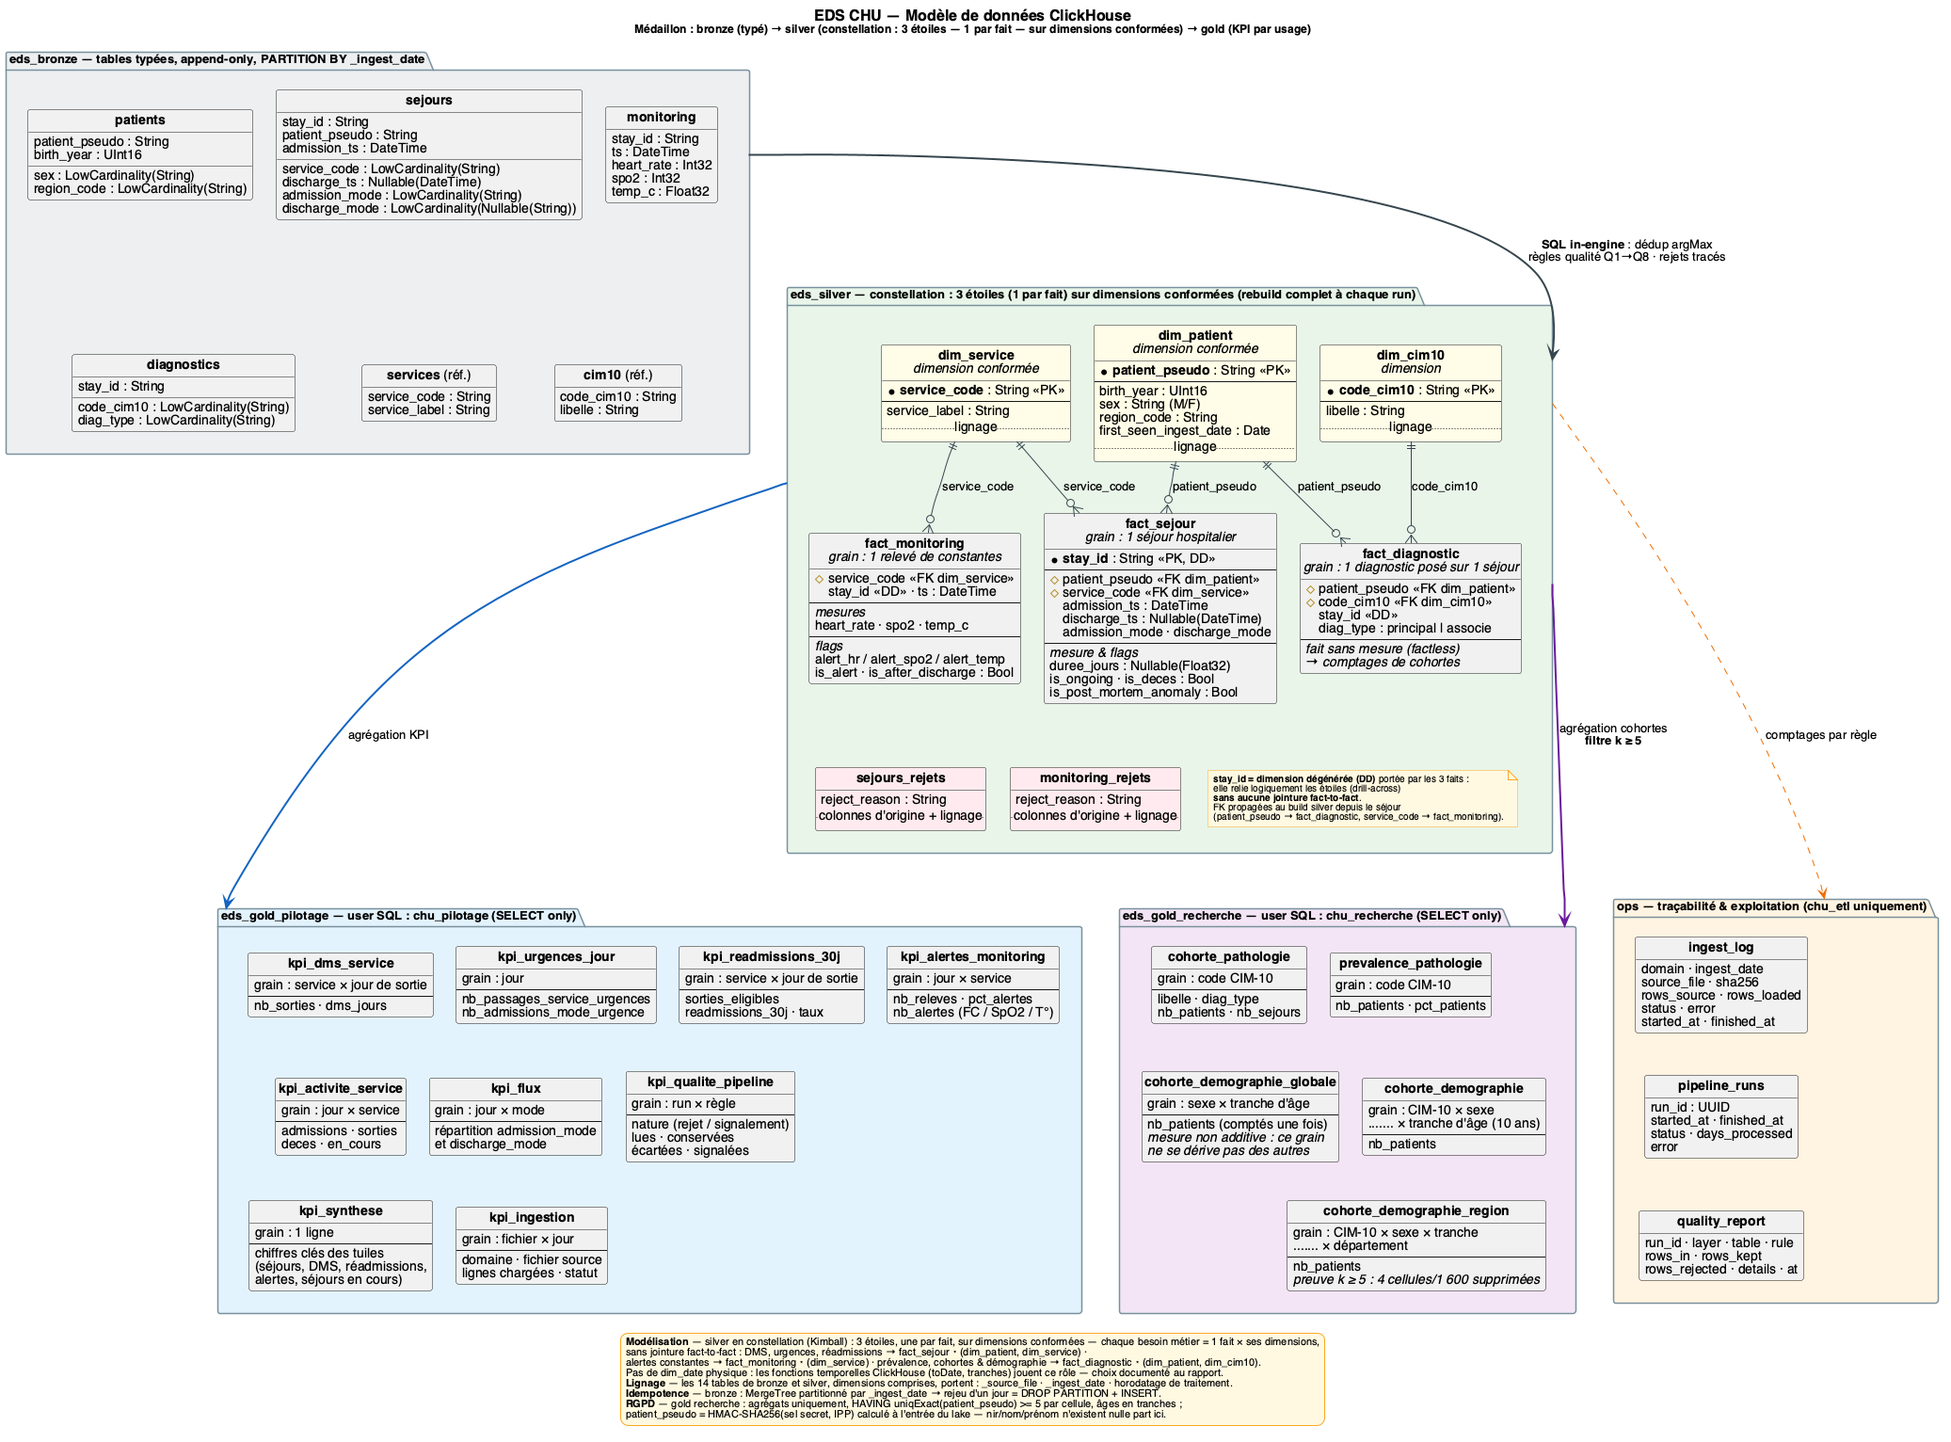
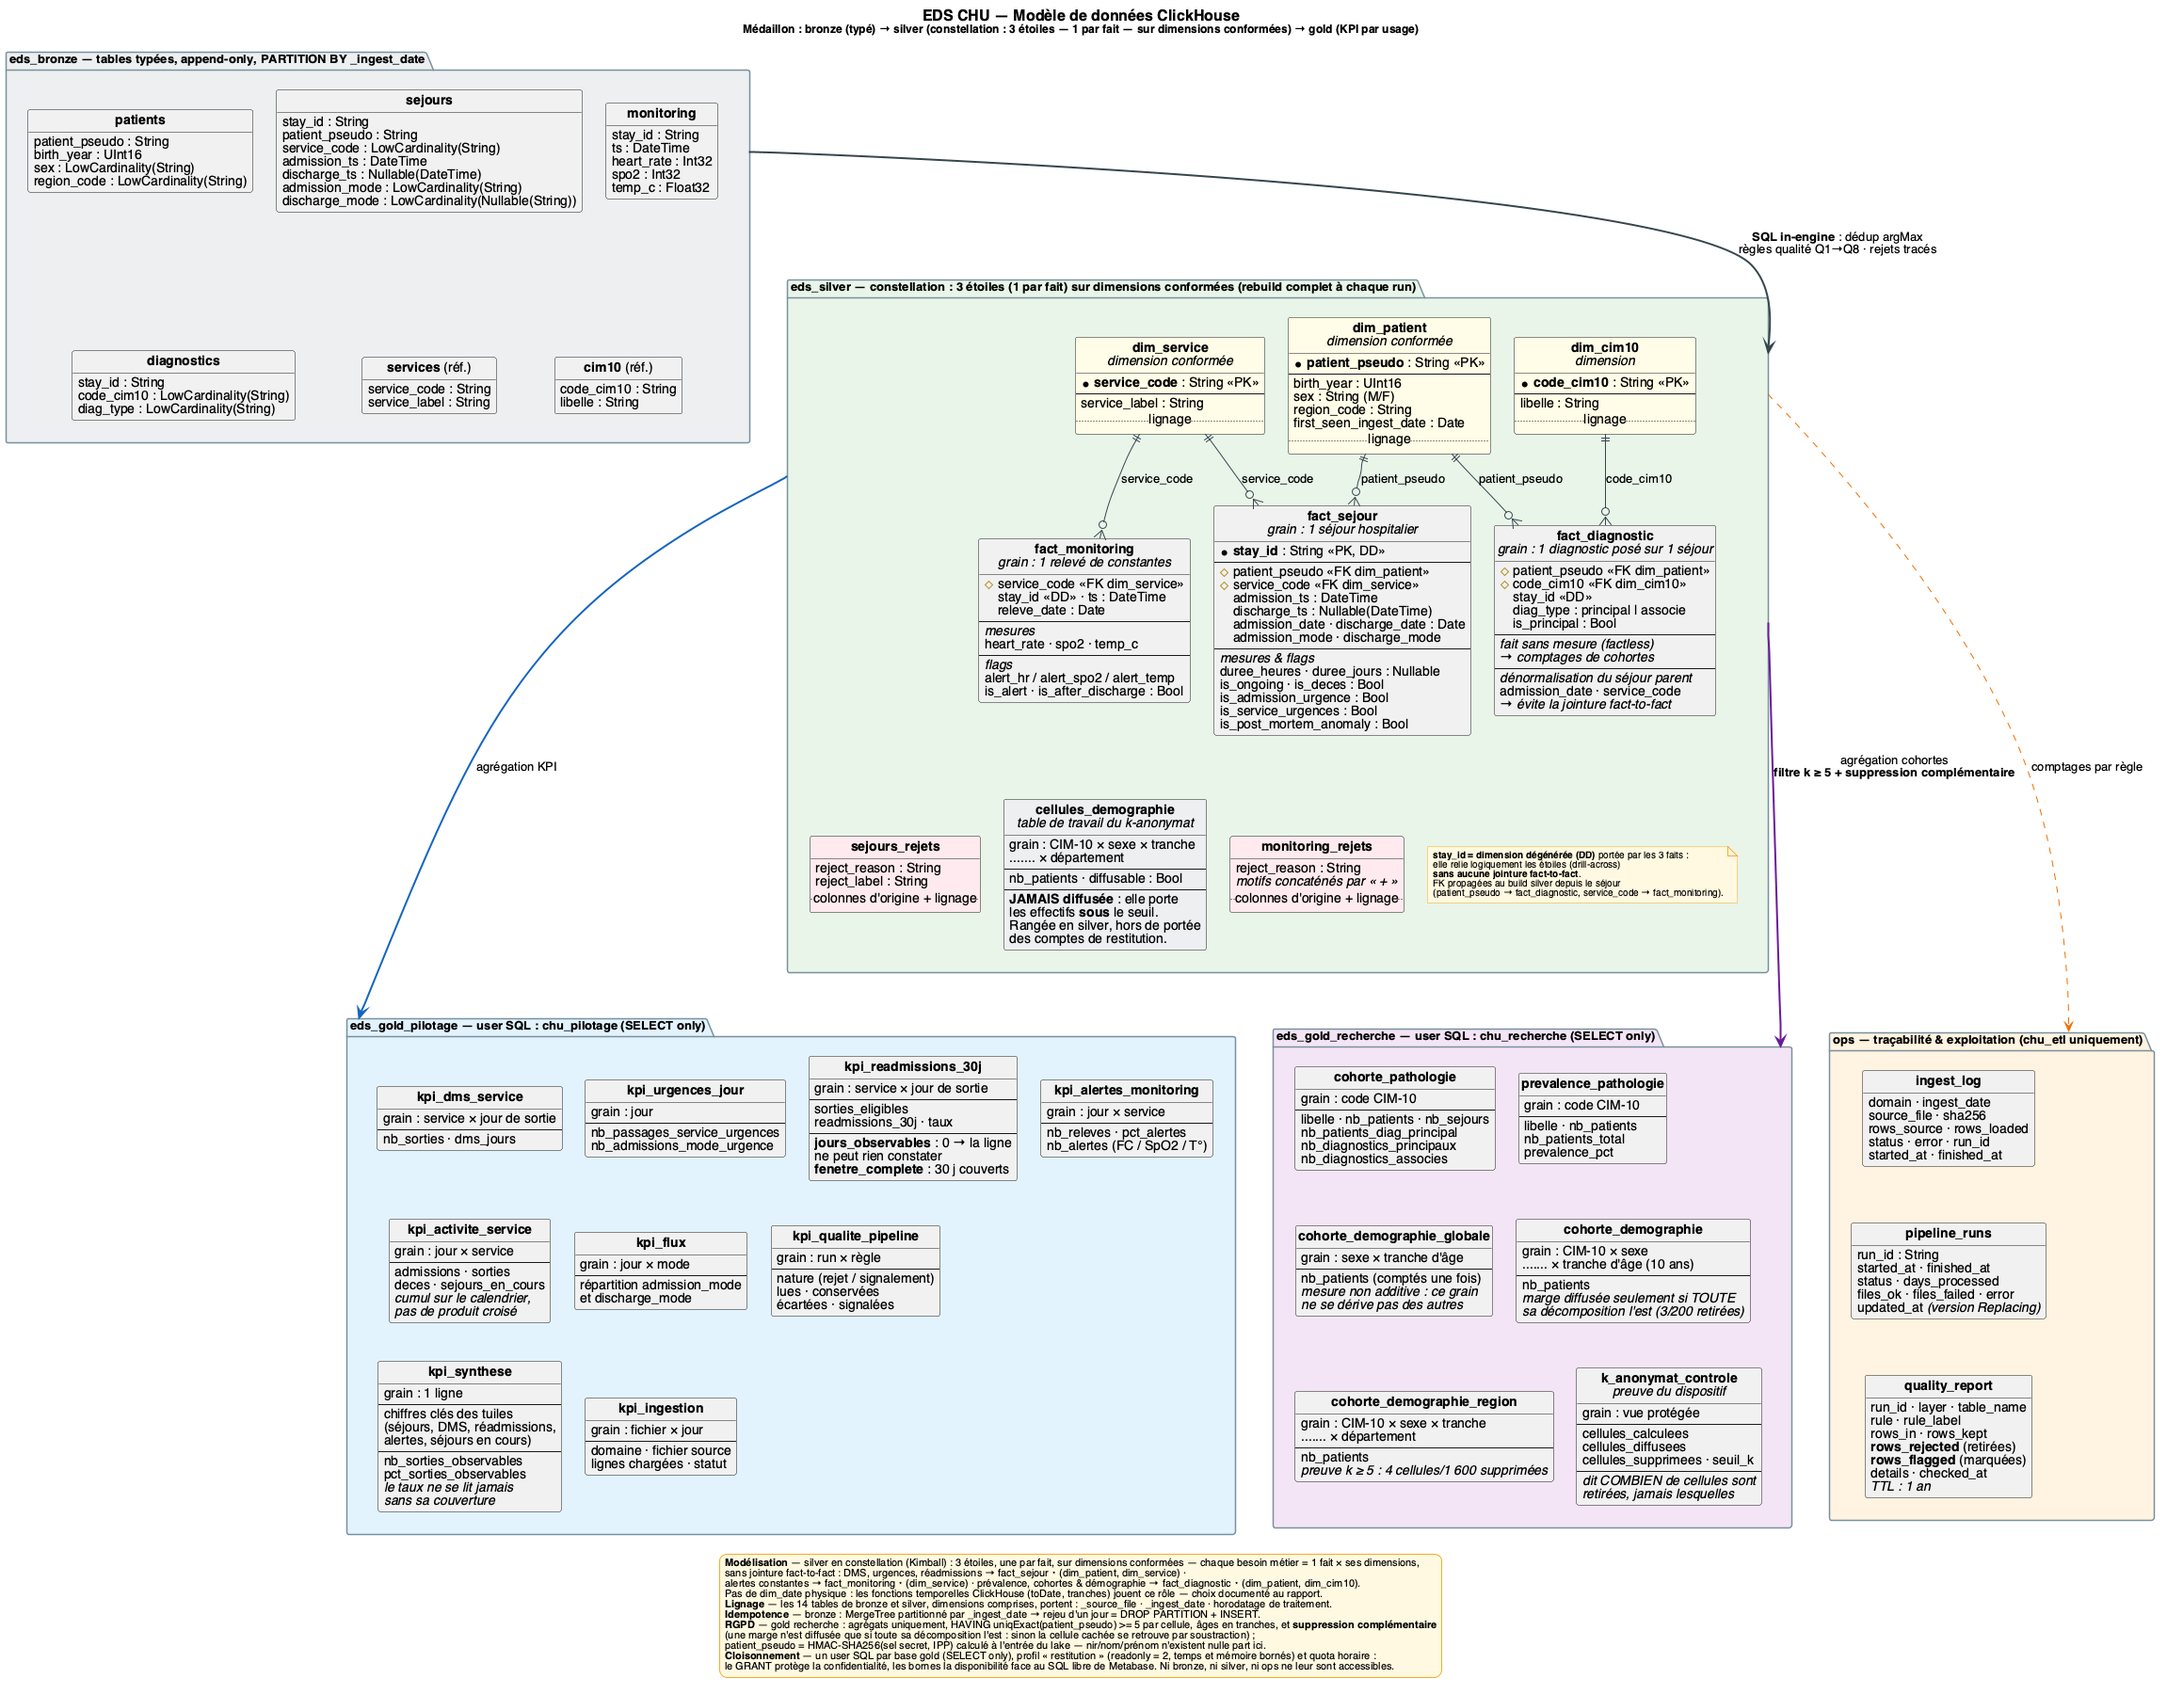
fix(docs): le diagramme du modèle ne décrivait plus l'entrepôt
Le cœur du schéma — bronze, les trois étoiles, les dimensions conformées et
leurs relations — était juste. Mais treize détails avaient dérivé au fil des
corrections, dont deux tables entières :

- `eds_silver.cellules_demographie`, la table de travail du k-anonymat, dont
  tout le §7.2 du rapport explique qu'elle vit en silver pour ne PAS être
  diffusée : elle était absente du schéma qui prétend faire foi ;
- `eds_gold_recherche.k_anonymat_controle`, la preuve chiffrée du dispositif.

Et onze colonnes manquantes ou fausses : `jours_observables` et
`fenetre_complete` (le point d'analyse du dossier), la couverture dans
`kpi_synthese`, `rows_flagged` dans `quality_report`, `run_id` typé UUID au
lieu de String, `files_ok`/`files_failed`/`updated_at`, `en_cours` renommé
`sejours_en_cours`, la dénormalisation du séjour parent dans
`fact_diagnostic` — celle qui justifie l'absence de jointure fact-to-fact —
et deux tables de recherche dont les colonnes ne correspondaient plus.

Un artefact de rendu est corrigé au passage : PlantUML prenait toute ligne
contenant des parenthèses pour une méthode et la reléguait dans un
compartiment séparé, coupant les entités au hasard. `{field}` force le bon
type sur les dix-neuf lignes concernées.

`tests/test_data_model.py` empêche la dérive de recommencer : chaque table de
`EXPECTED_TABLES`, de bronze et de ops doit figurer au diagramme, aucune
table fantôme n'y subsiste, et le PNG comme le SVG doivent être plus récents
[…]

diff --git a/tests/test_data_model.py b/tests/test_data_model.py
@@ -1,0 +1,85 @@
+"""Le diagramme du modèle de données décrit-il encore l'entrepôt réel ?
+
+`docs/data-model.puml` fait foi pour les DDL et illustre le dossier de
+conception. C'est aussi le document qui dérive le plus facilement : il ne casse
+rien quand il ment, personne ne s'en aperçoit avant la soutenance, et une table
+ajoutée sans y figurer donne l'impression d'un modèle qu'on n'a pas relu.
+
+Ce test ne compare pas colonne par colonne — un diagramme synthétise, il ne
+duplique pas le schéma. Il vérifie l'invariant qui compte : **toute table
+attendue de l'entrepôt est représentée**, et le diagramme ne mentionne pas de
+table qui n'existerait plus.
+"""
+
+from __future__ import annotations
+
+import re
+from pathlib import Path
+
+import pytest
+
+from eds.transform import EXPECTED_TABLES
+
+DIAGRAMME = Path(__file__).resolve().parents[1] / "docs" / "data-model.puml"
+
+# Tables bronze et ops : elles ne figurent pas dans EXPECTED_TABLES, qui ne
+# couvre que les couches reconstruites à chaque run.
+BRONZE = ("patients", "sejours", "diagnostics", "monitoring", "services", "cim10")
+OPS = ("ingest_log", "pipeline_runs", "quality_report")
+
+
+@pytest.fixture(scope="module")
+def entites() -> set[str]:
+    """Noms d'entités déclarés dans le diagramme."""
+    source = DIAGRAMME.read_text(encoding="utf-8")
+    # `entity "**nom**\n<i>…</i>" as alias {` — on extrait le nom en gras.
+    return set(re.findall(r'entity "\*\*([a-z_0-9]+)\*\*', source))
+
+
+@pytest.mark.parametrize("table", BRONZE)
+def test_les_tables_bronze_sont_au_diagramme(entites: set[str], table: str):
+    assert table in entites
+
+
+@pytest.mark.parametrize("table", OPS)
+def test_les_tables_ops_sont_au_diagramme(entites: set[str], table: str):
+    assert table in entites
+
+
+@pytest.mark.parametrize(
+    ("base", "table"),
+    [(base, table) for base, tables in EXPECTED_TABLES.items() for table in tables],
+)
+def test_les_tables_derivees_sont_au_diagramme(entites: set[str], base: str, table: str):
+    """Silver et gold : le diagramme doit suivre chaque ajout de table.
+
+    C'est exactement ce qui avait dérivé : `cellules_demographie` (la table de
+    travail du k-anonymat) et `k_anonymat_controle` (sa preuve chiffrée)
+    existaient dans l'entrepôt et dans le rapport, mais pas sur le schéma.
+    """
+    assert table in entites, (
+        f"{base}.{table} est déclarée dans EXPECTED_TABLES mais absente de "
+        f"{DIAGRAMME.name} — le diagramme ne décrit plus l'entrepôt"
+    )
+
+
+def test_le_diagramme_ne_decrit_pas_de_table_disparue(entites: set[str]):
+    """L'inverse compte autant : une table retirée doit quitter le schéma."""
+    attendues = set(BRONZE) | set(OPS) | {t for tables in EXPECTED_TABLES.values() for t in tables}
+    fantomes = entites - attendues
+    assert not fantomes, f"{DIAGRAMME.name} décrit des tables inexistantes : {sorted(fantomes)}"
+
+
+def test_le_rendu_est_a_jour(entites: set[str]):
+    """Le PNG et le SVG doivent avoir été régénérés après modification.
+
+    `make diagram` les reconstruit. Sans ce contrôle, le dossier afficherait un
+    schéma périmé alors que sa source est correcte — le pire des deux mondes.
+    """
+    source = DIAGRAMME.stat().st_mtime
+    for rendu in ("eds-data-model.png", "eds-data-model.svg"):
+        chemin = DIAGRAMME.parent / "img" / rendu
+        assert chemin.is_file(), f"{rendu} manquant — lancez `make diagram`"
+        assert chemin.stat().st_mtime >= source, (
+            f"{rendu} est plus ancien que {DIAGRAMME.name} — lancez `make diagram`"
+        )

diff --git a/README.md b/README.md
@@ -184,7 +184,7 @@ uv run eds --help
 │   ├── 15_bronze_load/     chargements paramétrés par jour
 │   ├── 20_silver/          constellation, règles qualité, rapport
 │   └── 30_gold/            indicateurs par usage
-├── tests/                127 tests (64 unitaires, 63 d'intégration)
+├── tests/                162 tests (99 unitaires, 63 d'intégration)
 │   ├── test_pseudo.py      pseudonymisation : stabilité, non-réversibilité
 │   ├── test_collect.py     aucune donnée identifiante ne sort de la source
 │   ├── test_config.py      détection des secrets d'exemple
@@ -192,6 +192,7 @@ uv run eds --help
 │   ├── test_warehouse.py   découpage des scripts SQL
 │   ├── test_pipeline.py    dépôt incomplet, échec partiel, couche en retard
 │   ├── test_dashboards.py  mise en page : chevauchements, titres, tables visées
+│   ├── test_data_model.py  le diagramme décrit-il encore l'entrepôt réel ?
 │   └── test_e2e.py         invariants de l'entrepôt (nécessite Docker)
 ├── docs/                 Toute la documentation
 │   ├── RAPPORT.md          dossier d'analyse et de conception (Partie 1)
@@ -221,14 +222,14 @@ commande que vous pouvez rejouer.
 | Vérification | Commande | Ce qu'elle établit |
 |---|---|---|
 | Style | `make lint` | ruff, sur `src/` et `tests/` |
-| Tests unitaires | `make test` | 64 tests, sans Docker : pseudonymisation, collecte, incrémentalité, découpage SQL, mise en page des dashboards |
+| Tests unitaires | `make test` | 99 tests, sans Docker : pseudonymisation, collecte, incrémentalité, découpage SQL, mise en page des dashboards |
 | Invariants de l'entrepôt | `make test-e2e` | 63 tests : volumétries exactes, règles qualité, k-anonymat, cloisonnement, lignage |
 | Cloisonnement | `uv run eds check-cloisonnement` | 9 scénarios réels, aux deux niveaux (moteur et interface) |
 | Rapport qualité | `make quality` | les 18 règles du dernier traitement, chiffrées |
 | Tenue en charge | `uv run benchmarks/charge_monitoring.py` | 20 M de relevés chargés par le chemin réel du pipeline |
 
 **Ce que la CI couvre, et ce qu'elle ne couvre pas.** Le workflow exécute le style et les
-**64 tests unitaires** à chaque poussée. Les **63 tests d'intégration** ne s'y exécutent que
+**99 tests unitaires** à chaque poussée. Les **63 tests d'intégration** ne s'y exécutent que
 si un jeu de données est mis à disposition du runner (`vars.EDS_SOURCE_AVAILABLE`) : le
 dépôt du CHU contient l'identité réelle des patients et n'est pas versionné. C'est un
 arbitrage assumé — nous préférons une CI partielle à un dépôt qui contiendrait des données

diff --git a/docs/CONVENTIONS.md b/docs/CONVENTIONS.md
@@ -73,7 +73,7 @@ l'une d'elles change, c'est qu'une règle a été modifiée, et cela doit être 
 | KPI | DMS 6,08 j (6,01 → 6,23 par service) · patients 5 358 · réadmission **687 / 1 421 observables = 48,3 %** (couverture 12,2 %) |
 | RGPD | k-anonymat 4 cellules retirées / 1 600 · marges 3 / 200 · 0 cellule reconstructible |
 | qualité | **18 règles** = 14 silver + 4 gold |
-| tests | **127** = 64 unitaires + 63 d'intégration |
+| tests | **162** = 99 unitaires + 63 d'intégration |
 
 ⚠ **Le taux de réadmission ne se lit jamais sur les 11 678 sorties éligibles** : seules
 1 421 ont une fenêtre d'observation non vide. Le rapport aux 11 678 donnerait 5,9 %, exact
@@ -85,7 +85,7 @@ et trompeur (cf. [`RAPPORT.md`](RAPPORT.md) §5.3).
 make demo        # démo complète de zéro (up + pipeline + provision) — ~30 s
 make pipeline    # pipeline incrémental (jours non encore ingérés)
 make quality     # les 18 contrôles qualité du dernier traitement
-make test        # 64 tests unitaires ; make test-e2e pour les 63 invariants
+make test        # 99 tests unitaires ; make test-e2e pour les 63 invariants
 make provision   # recrée connexions, permissions et dashboards Metabase
 uv run eds run --rebuild          # reconstruit silver+gold après modification du SQL
 uv run eds run --date 2026-08-27  # rejeu forcé d'un jour (reprise sur incident)
